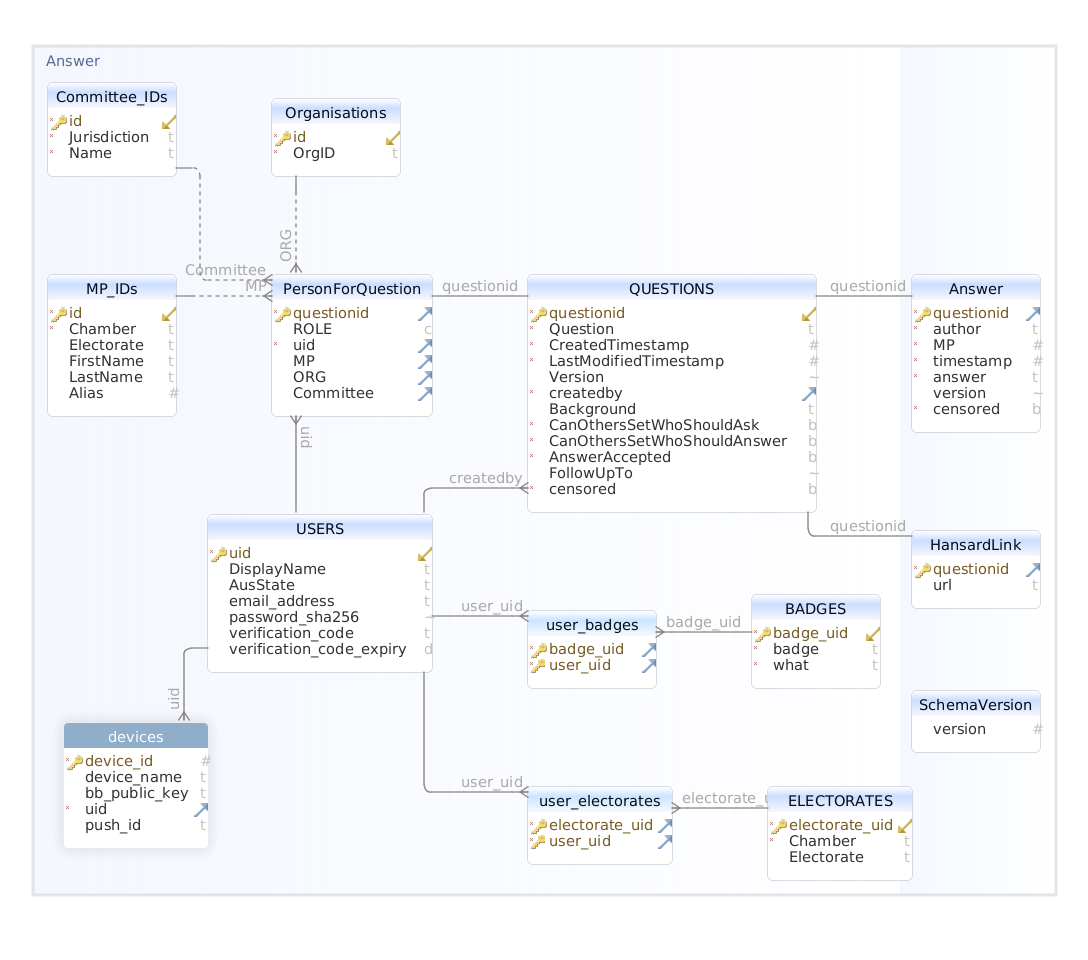
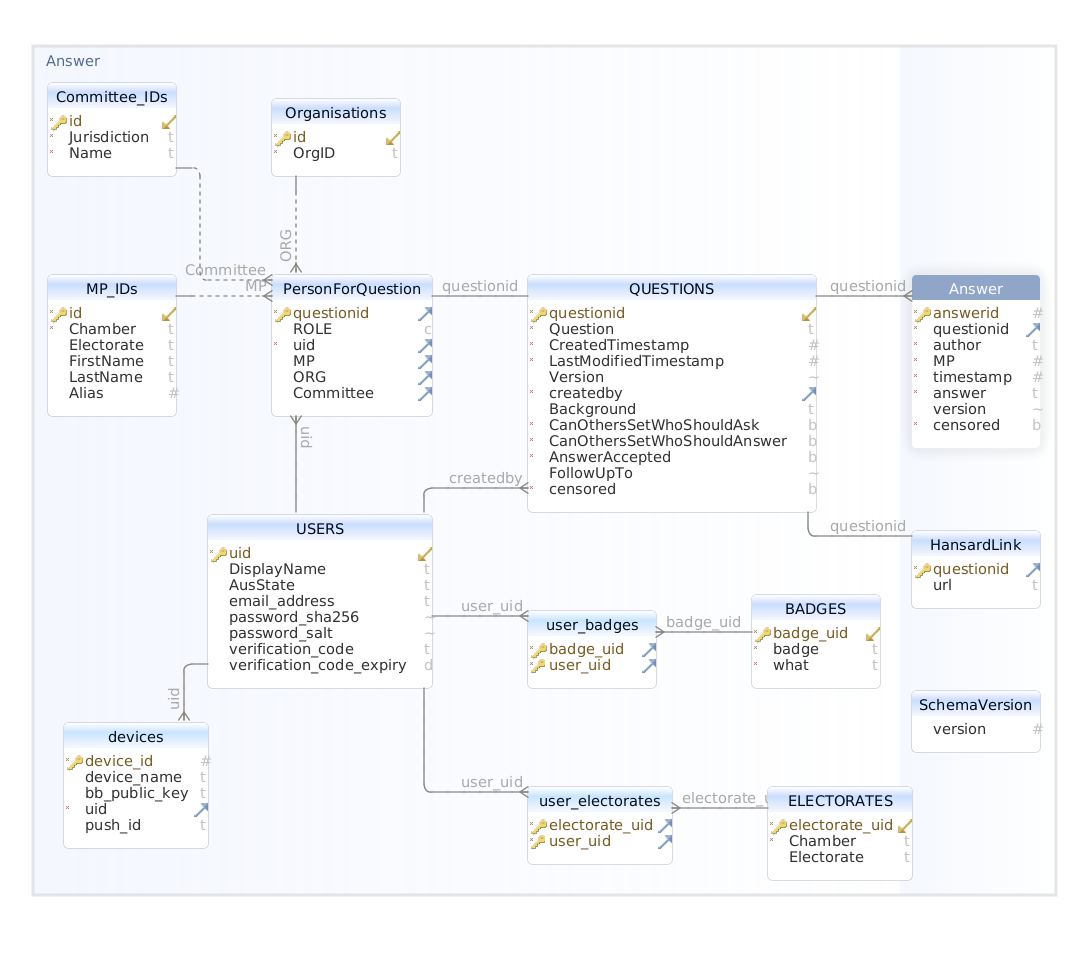
Further updates and bringing together documents - further questions to be discussed in next call

diff --git a/UserAccounts_WP1A.md b/UserAccounts_WP1A.md
@@ -60,27 +60,318 @@ The following diagrams shows an updated diagram with the relational links added,
 
 Whilst this may look like a lot of changes, most of it is the addition of foreign key constraints. Additionally, linking tables for badges and electorates have been added. Previously each Badge would duplicate the content for each user, when in fact the badge is static and is just awarded to the user. Similar to electorates, there is only one electorate that each user should reference, instead of each user having an entry for that electorate. 
 
-> **For Consideration**: Is there a one-to-one relationship between question and answer? If so, is there a one-to-one relationships between an answer and an MP? Or could an answer have more than one MP answer it? Alternatively could each question have multiple answers? If the latter is true, the answer table will need its own primary key, probably an auto increment integer called answer_id, and the questionid set as a foreign key constraint only and removed from the primary key of answer.
-
-VT: A question can have multiple answers, including multiple answers from one MP, or answers from multiple MPs.
+Changes to the existing structure could be achieved using Database Management software like [DBSchema](https://dbschema.com/), from which the entity relationship diagrams were created. The paid for version of DBSchema offers functionality to generate migration scripts. These work by first importing the existing database schema, making the necessary changes, and then exporting the migration scripts. These scripts should handle both the updating of the database structure as well as moving the data over to it. It would need testing in practice, but might provide a starting point for migration. If the database can be discarded and re-initialised, i.e., it is still in testing or development then that would be easier and the more advisable option. 
 
 ### User Table
 Users has been modified to convert the UID to an auto increment integer. A new field has been added to hold the email address, irrespective or whether it is added manually or retrieved from a federated login. A password_sha256 field has been added to handle local logins. This should contain a 32 byte verification value calculated using the password_salt. Whether the salt is returned to the user for local calculation or the salted hashing is performed on the server remains to be decided. It is possible that these fields are blank depending on how registration is performed. 
 
-The verification_code and verification_code_expiry contain the last randomly generated verification code sent to the user. The expiry should be a time, for example, 30 minutes after the code was generated. When checking the code, if the current time exceeds this expiry the code should be rejected. [_**Note**: implementing this requires careful consideration of daylight saving time if the clock being used for comparison changes with daylight saving time. It is generally easier to use UTC instead of a local timezone for such comparisons._]
+The verification_code and verification_code_expiry contain the last randomly generated verification code sent to the user. The expiry should be a time, for example, 30 minutes after the code was generated. When checking the code, if the current time exceeds this expiry the code should be rejected. [_**Note**: implementing this requires careful consideration of daylight saving time if the clock being used for comparison changes with daylight saving time. It is generally easier to use UTC instead of a local timezone for such comparisons. Unix time is derived from UTC, so provided no timezones are applied it should be fine_]
 
-VT: Can we just use UNIX time and ignore timezones altogether?
+
 
 ### Sessions
 Currently there is no concept of sessions within the back-end or the client app. Traditionally, apps would establish a session with the server though logging in, which would return some form of bearer-token that could be used to authenticate all subsequent requests until the session expires. By contrast, RTA uses the signing of messages as a means for authentication. This is sufficient when dealing with a very limited API, for example, adding a question, accepting an answer etc., however, it presents a problem for user account management. 
 
-For example, if a user wants to change their display name or email address is will be necessary to authenticate both the request to view the current data, and any follow-up requests to change it. It is possible that these requests could be signed as well, but that will make the processing of such requests more computationally expensive due to the signature checking required. 
+For example, if a user wants to change their display name or email address it will be necessary to authenticate both the request to view the current data, and any follow-up requests to change it. It is possible that these requests could be signed as well, but that will make the processing of such requests more computationally expensive due to the signature checking required. 
+
+Currently this is not a problem because of the single device architecture However, once multiple devices are supported it will be necessary to synchronise such data on start-up, since it could have been changed by another device. 
 
 VT: The way it's implemented at the moment is that existing data is stored locally and change requests are signed. Agree this may be a computational burden.
 
 One option for establishing sessions would be to use Mutual Authentication of the TLS connection. The server could act as an internal Certificate Authority that signed certificate requests from the client. As such, when a user registers and generates their key pair they also generate a certificate signing request which is signed to create a certificate including their UID and their device_id.
 
-VT: Interesting. Let's discuss.
+### TLS 
+The current approach to TLS on the server is to have an nginx server that acts as the end-point and then locally redirects requests to Rust. This has some advantages, in that it would allow load balancing by redirecting to different instances. However, the downside is that the end-point occurs prior to the Rust server and as such some additional configuration is needed to access the certificate. The simplest approach is to forward the necessary data via proxy headers, for example, by enabling:
 
-A related conundrum (though not necessarily one with the same solution) is pagination of the questions - how does the server know which questions it has already served to which users, so as to avoid repeating them? At the moment, it doesn't - it just returns them all, but this will become infeasible as the number of questions grows large.
+`proxy_set_header X-SSL-Client-S-DN   $ssl_client_escaped_cert;`
 
+This will include an encoded copy of the verified certificate in the headers, which Rust can then extract use to determine the client ID. 
+
+It is not always necessary to send the entire certificate. It is possible to extract various parts from the certificate for efficiency using headers like the following:
+
+```
+proxy_set_header X-SSL-Client-Serial $ssl_client_serial;
+proxy_set_header X-SSL-Client-Verify $ssl_client_verify;
+proxy_set_header X-SSL-Client-S-DN   $ssl_client_s_dn;
+```
+
+The Rust process to check that `X-SSL-Client-Verify=="SUCCESS` which determines if the mutual TLS was successful. Note, this will be essential because nginx may need to be configured to allow failed mTLS connections through for some requests, as such, `X-SSL-Client-Verify` may not always be SUCCESS.
+
+The reason failed mTLS connections may need to be allowed through is to allow the initial registration request through, in which the mTLS has not yet been configured for that client. An alternative, and better albeit more complicated option would be to configure different locations with different settings. One would be specifically for registration in which failed mTLS connections would be accepted and passed on to Rust. Whilst the general location for all other requests would enforce successful mTLS and reject any connections that fail. For redundancy the `X-SSL-Client-Verify` should be checked in any case to protected against nginx misconfiguration. 
+
+#### TLS Sessions
+TLS sessions would work by extracting a unique ID from the client certificate and using that as the index to a session store held on the server. Note, it is advisable to use a device specific identifier, not a user identifier. Otherwise a user accessing the service with two different devices will create a session collision, i.e. they will have one session shared between them which will create problems for future functionality like pagination. A good option would be to use a double index in the session store. The first level would be the user ID, extracted from the certificate DN, and the second would the certificate serial number, which is device specific due to different certificates being used on each device. 
+
+I would suggest implementing the session store using [memcached](https://www.memcached.org/). This provides a key value store, which is supported in [Rust](https://docs.rs/memcache/latest/memcache/). It provides object storage as well as providing an expiration time for entries. As such, there is no need to explicitly managed clean-up, memcached will handle clearing expired session for you.
+
+Data that is stored in a session is not persistent, it will be lost during a server restart or after expiration. The expiration should be long enough to cover the vast majority of use cases and will be dependent on how the app reloads. For example, how long should a search pagination last between requests, 30 minutes, 1 hour, 24 hours? Any such usage of a session cache should be written to gracefully fail should the session disappear, for example, during a server restart. 
+
+
+
+_A related conundrum (though not necessarily one with the same solution) is pagination of the questions - how does the server know which questions it has already served to which users, so as to avoid repeating them? At the moment, it doesn't - it just returns them all, but this will become infeasible as the number of questions grows large._
+
+## User Accounts
+
+### Need for accounts
+Unfortunately one of the few things you can guarantee with the internet is that if you allow people to post content, someone will post content they should not. Whether that is illegal content, harassment, spam, distribution of malware, or one of the many other possibilities, the ability to reach an audience will eventually be noticed by miscreants and subsequently targeted. As such, a completely open system is likely to become unmanageable quickly, and in turn may detract from the true purpose of the site and discourage genuine users. That said, the opposite is also a problem, if the creation of accounts is too arduous, it may cause too much friction and result in prospective users not engaging with the site. What is required is a minimum viable account system, whereby the minimum is determine by the moderation requirements of the site.
+
+It should be noted that this method of determining the minimum viable account system is specific to this context. In other contexts there may be additional requirements, for example, in finance there will be Know Your Customer requirements, in online shopping there might be delivery or payment requirements. However, in this context the primary objective is moderation and as such will be the factor we use to determine the minimum level of account system.
+
+### Types of User Account
+The following user account types will be defined:
+1. **Basic** - The initial account type, no registration is required but extremely limited in functionality
+3. **Registered** - Intermediate account type that has no greater permissions, but has started the registration process by providing their email address
+5. **Verified** - Verified account, their email account has been verified and they now have full standard user account privileges 
+7. **Verified Secondary** - Extended standard user account that has been linked to an MP's account, either via email verification or direct approval TBD
+9. **Verified Primary** - Verified as a parliamentary MP account via email
+
+Accounts effectively have escalating permissions with type. i.e. Basic can view but that is it, registered is an internal only status to handle the transfer from registered through to verified.  Note that most people will spend almost no time in the state of registered but not verified. Indeed, it may not even be helpful to think of this as a separate state from 'basic'.
+
+There may be adding "privileges" or badges associated with an account, but they not need change the definition of an account. For example, a user could self-submit their electorate, which would define the electorate in the database. However, there is also the possibility of distributing QRCodes within electorates to allow a user to verify their electorate. The best approach to this would be through the use of badges, and have the issuing of badges distinct form user account management.
+
+Overall, badges would provide an easy way of defining the different types of account and allow easy adding and removing of badges. However, the current code for managing badges may need some minor updates. The existing code in [person.rs](https://github.com/RightToAskOrg/right_to_ask_server/blob/main/right_to_ask_api/src/person.rs) does not handle checks and updates in a single database transaction. It does not look like this would cause a critical failure, but it could in theory create some concurrency issues.
+
+For example, it appears the following code checks if the badge is in the database in one transaction and then stores the badge in the database in a second distinct transaction. There is no guarantee of consistency between the first `is_in_database` result and when the `store_in_database` is called. It is likely that the first check could be combined into a single query. If not, then a single transaction should cover both queries to maintain consistency.
+
+```
+if badge.is_in_database(&initial_request.signed_message.user).await.map_err(internal_error_email)? { return Err(EmailValidationError::AlreadyHaveBadge); }
+    badge.store_in_database(&initial_request.signed_message.user).await.map_err(internal_error_email)?
+```
+
+It appears that the queries run for these two functions are as follows:
+```
+select COUNT(UID) from BADGES where UID=? and badge=? and what=?
+```
+and 
+```
+insert into BADGES (UID,badge,what) values (?,?,?)
+```
+In the updated recommendation structure this could be combined into a single insert query:
+
+```
+insert into user_badges (user_uid,badge_uid) values (?,?)
+```
+
+Where the `badge_uid` represents the type of badge being added, i.e. "Registered", "Verified", etc. These are shared types, with the mapping occurring in user_badges. As `user_uid` and `badge_uid` are composite primary keys any attempt to insert a duplicate would be rejected, thereby not requiring the guard query to check if it already exists.
+
+
+### Permissions
+The following defines the different permissions the different users will have.
+
+| Account Type | Read Posts | Create Posts  |  Upvote/Dismiss  |  Answer Questions | Flag Posts  |  DM  | Authorise Delegate Account | Act as Delegate Account 
+| ------------- |:-------------:| :-------------: |:-------------: |:-------------:|:-------------:| :-----:|:-----:|:-----:|
+| Basic      | :ballot_box_with_check: | :negative_squared_cross_mark: | :negative_squared_cross_mark: | :negative_squared_cross_mark:  | :negative_squared_cross_mark: | :negative_squared_cross_mark: |  :negative_squared_cross_mark: |  :negative_squared_cross_mark: |
+| Registered  | :ballot_box_with_check: | :negative_squared_cross_mark: | :negative_squared_cross_mark: | :negative_squared_cross_mark:  | :negative_squared_cross_mark: | :negative_squared_cross_mark: |  :negative_squared_cross_mark: |  :negative_squared_cross_mark: |
+| Verified | :ballot_box_with_check: | :ballot_box_with_check: | :ballot_box_with_check: |:negative_squared_cross_mark:  | :ballot_box_with_check: | :ballot_box_with_check: |  :negative_squared_cross_mark: |  :negative_squared_cross_mark: |
+| Verified Secondary | :ballot_box_with_check: | :ballot_box_with_check: | :ballot_box_with_check: | :ballot_box_with_check: | :ballot_box_with_check: | :ballot_box_with_check: |  :negative_squared_cross_mark: | :ballot_box_with_check: |
+| Verified Primary |:ballot_box_with_check: | :ballot_box_with_check: |:ballot_box_with_check: | :ballot_box_with_check: | :ballot_box_with_check: | :ballot_box_with_check: | :ballot_box_with_check: | :negative_squared_cross_mark: |
+ 
+> **For Consideration**: Should a Registered account be able to Flag posts? The argument against is the creation of fake accounts and spamming the moderators. The argument for is that if you can read something that causes you offence, should you have to verify yourself to flag it? It might be better to allow flagging easily but weight unverified user flags lower that verified user flags. 
+
+VT: I changed 'Flag post' permission for plain Registered, so that it perfectly matches 'basic.'
+
+VT: At the moment the authorisation for delegate accounts (or rather the acquisition of the badges) is through a 6-digit PIN sent in email. Certainly like the idea of possisbly endorsing directly in the app though.
+
+
+
+### User Account Structure
+* DisplayName (free text, no emoji, non-unique)
+* uid - internal random userID - not changeable
+* username/handle (no spaces, equivalent to twitter @, unique)
+
+Account type and moderation status will be stored via badges.
+
+> **For Consideration**: Should handle and DisplayName be distinct, as it is on Twitter? Should handle/username be the email address? If so, that would make email address public, which probably isn't desirable. This is only of relevance for DMs which require some form of addressable value, it would be possible to use DisplayName, but generally addressable names don't include spaces
+
+> **For Consideration**: Should handle and DisplayName be distinct, as it is on Twitter? This is only of relevance for DMs which require some form of addressable value, it would be possible to use DisplayName, but generally addressable names don't include spaces
+
+* AccountType - int (basic, registered, verified etc)
+* ModStatus - default 0 (1 premod, 2 banned)
+
+Username needs to be unique, so people can for example establish a DM exchange using username as an index to the internal ID. It is likely that changing the username will be a requirement, although hopefully a rare one. The question is how to handle that:
+* Should usernames be available for reuse if someone no longer uses it, i.e. they changed their username, does their old username become available for use?
+* If old usernames are made available should there be a time delay before they are available for use? If so, how long?
+* If not, should all usernames associated with an account be permanently associated with it, i.e. if someone tries to initiate a DM key exchange with an old username should it work? I can see problems with this in that it would reveal old usernames. That might be an issue depending on why the username was changed. Let's imagine it was an offensive username or at least accidentally offensive, history of that might want to be forgotten. Alternatively are old usernames simply retired?
+* If retiring or permanently associating usernames should there be a limit on the number of changes? I.e. 3 changes to prevent username squatting.
+
+Username should not be position specific, i.e. VicHealthMinister, instead they should use BobSmithMP and have "Vic Health Minister" as their display name. 
+
+### Changes in DisplayName
+If DisplayName is not used for indexing uid for DMs, the changing of a DisplayName is potentially easier than changing a username. However, this does present a challenge for previously asked questions.
+
+> **For Consideration**: Should DisplayName, or indeed username if used instead, be permanently tied to a question, or should it be dynamically loaded from the user account? The problem with the latter is that an MP leaving would lose their MP status, and may change both values, and in doing so answers will appear to come from people who are not MPs. Also, if an MP is the Health Minister and has that in the handle or display name, but they then become the Trade Minister, the questions they previously answered as the Health Minister would appear to be being answered by the Trade Minister. I suspect we are going to have to maintain a list of DisplayNames, and or handles, for each user and link questions and answers to the active DisplayName or handle as the time the question was asked or the answer was given. This presents a moderation challenge, in that in exceptional circumstances we would need to be able to change that - i.e. if it offensive - but that should be a moderation only task.
+
+VT: Unfortunately we probably do have to allow reuse, for example if someone registers VicHealthMinister and then gets reshuffled. Not clear this is needed for MVP though.
+
+If a user changes their email address their verification status is reset. They should be warned about this before starting to make the change.
+
+Are email addresses unique? I.e. only one user per email address?
+VT: The UI experts thought a lot about this and decided yes, just one. Obviously the official MP registration can be used to endorse multiple secondary accounts though.
+
+### Badge Types
+Badges will be globally defined instead of creating a badge per person for the same thing. i.e., there will be one Registered badge and one Verified badges in the badges table and then they will assigned to multiple users. The badges table is defined as follows:
+
+| Field Name | Field Type | Comments |
+| ------------- |:-------------:| :-------------: |
+| badge_uid | INT | PRIMARY KEY NOT NULL
+| badge_name | VARCHAR(30) |  |
+| what | TEXT |NOT NULL   |
+
+This is slightly different to presently, where `badge` is an ENUM, which is not necessary as the badges table becomes the ENUM in the new structure. `badge` is replaced with `badge_name` that is human readable name for the badge.
+
+The initial badges would be:
+
+| badge_uid | badge | what |
+| ------------- |:-------------:| :-------------: |
+| 1 | basic_user | Basic User badge |
+| 2 | registered_user | Registered User badge |
+| 3 | verified_user | Email Verified User badge |
+| 4 | MP | Denotes user is an MP |
+| 5 | MP Staff | Denotes user is a staffer for an MP |
+| 6 | Admin | Denotes user is an admin |
+| 7 | no_mod | Denotes the user is not currently subject to moderation |
+| 8 | pre_mod | Denotes the user is currently subject to pre-moderation |
+| 9 | banned | Denotes the user is banned|
+
+Note, that when moving between user states, i.e. registered_user to verified_user, or no_mod to pre_mod, the change must be perform in a single SQL transaction. For example, if the no_mod badge is to be removed and the pre_mod badge added the DELETE on the no_mod badge for that user and the insert on the pre_mod badge for that user must occur in a single atomic transaction to ensure inconsistent states cannot occur through failure or server crash. 
+
+
+## User registration
+Default login - RTA managed.
+
+### Social Login
+Social login is a form of federated login that uses social media platforms as identity providers. A number of platforms offer such services, including Google, Facebook, Twitter, GitHub, etc. The idea behind it is that users do not need to create dedicated accounts for each service, and only need to remember a single password - the password for the social media identity provider. Where the social media platform has additional information, for example, first and last name, age, etc. the receiving platform can populate the profile without requiring the user to provide the same information again. Some people believe it has a lower level of friction when compared to creating a dedicated account, although some caution should be attached to such a view, which we will discuss later. 
+
+## Underlying Technology
+Social login relies on OAuth 
+_work in progress, additional notes to be added_
+
+
+## User Verification
+Email verification can be done via either a link or a code. An email link that can be clicked to approve the registration is commonplace, but the risks of phishing attacks may raise some concerns. If a link is used, consideration should be given for using [App Links](https://developer.android.com/studio/write/app-link-indexing) on Android to allow the verification to be performed using the app rather than the browser. Either way, the UI needs to gracefully handle the verification. If we assume that registration and verification may not happen sequentially the app needs to handle the verification flow from potentially any screen. As such it must consider the following:
+
+* Remember where the user was and what they were doing
+* Remembering that the user is likely to switch away from the app to their email client so restore needs to be correctly implemented
+* If using links provide either a Push notification to the app so that it automatically moves on from the verification challenge or a button that allows the user to trigger a check that verification has been completed and move on 
+* Some form of UI symbol should be shown within the app to signify verified status
+* For Verified Secondary the process is probably no different, I don't think we can require a parliament address for delegated assistant accounts as the staff may be private staff in the constituency. 
+* For Verified Primary accounts enforcement of registered MPs email addresses needs to in place
+
+### Delegating to an Account
+A Verified Primary account can delegate to a Verified Secondary account through some form of approval process, mostly likely digitally signing a request or through providing a security code similar to verification. It is probably best that such requests come from the Secondary account so there isn't a burden on the MP to perform too many management functions. Once delegated to, the Verified Secondary account should have similar or possible the same functionality as the primary. Currently it does not have permissions to delegate to further secondary accounts, which seems like a reasonable limitation.
+
+## Account recovery
+
+## Support for E2E DMs
+
+## Account Moderation
+This document provides an initial consideration of the need for accounts, how they could be realised and the purposes they should serve. It will initially outline why there is a need for accounts and then establish the properties that would be desirable from an account, with consideration for potential attack vectors. 
+
+### Actions to follow up
+* Define an acceptable use policy
+  * Including a staged suspension policy for accounts that are in breach
+* Define a complaints procedure
+  * Implement complaints handling back-end
+* Determine moderation strategy
+  * Implement moderation functionality
+
+
+
+
+### Moderation Requirements
+Before deciding what level of moderation will be required some notion of the sites acceptable use policies will need to be established. Some things should be fairly obvious, i.e. posting illegal content is not permitted. However, in a free speech setting care must be taken in determining the exact wording of the policy. The policy needs to be sufficiently robust that it will permit the banning or exclusion of an individual from the site should they breach said policy. In particular, sections detailing harassment, foul language, threatening behaviour should be clearly defined and explained.
+
+Once a policy is determined there are three core requirements for moderation to be effective
+* Items in breach of policy can be quickly and easily removed
+* Accounts deemed in breach are prevented from posting in the future, either permanently or temporarily
+* Direct messaging can be flagged by the recipient
+
+#### Items in breach of policy can be quickly and easily removed
+This may seem simple, but can be difficult to deliver as the site scales. There are a number of strategies that can be adopted:
+* Pre-moderation
+* Reactive Moderation
+* Community Flagged Moderation
+* Partially Automatic Community Flagged Moderation
+* Community Driven Moderation
+
+Whilst these strategies can be used in isolation, it is likely that a combination of different strategies may be more appropriate, possibly with distinct strategies used for different accounts based on past behaviours.
+
+One common feature of them all is the ability to uniquely identify posts and the user who posted it. This exists in the current design due to the signing of posts. However, there is an overall assumption that accounts are largely restricted to one per person and that a single individual cannot have many accounts. If that were  not to occur these moderation strategies, with the exception of pre-moderation, are likely to fail due to the inability to attribute breaches to an individual. If an individual can have many accounts banning their accounts will have no impact and they will be able to spam and potentially overwhelm the site with relative ease.
+
+##### **Pre-moderation**
+The most extreme variant of moderation in which content is not posted until it has passed moderation. Such a moderation strategy takes the most time and therefore comes at the highest cost. Furthermore, unless content posting is relatively low in volume this approach will rapidly become infeasible as the site grows. As an ongoing site-wide strategy this should be avoided, however, consideration should be given to being able to apply such moderation to specific accounts, for examples, accounts with a certain number of past breaches could be placed in this state for a period of time to try to modify behaviour of the user without outright exclusion.
+
+It should also be considered whether a site-wide setting is implemented for emergency use. One should consider what would happen if the site came under a sustained and co-ordinated attack that attempted to spam it. This could happen were there to be an oversight in some aspect of authentication or overall moderation strategy. Having the option to enable a site-wide pre-moderation flag could be a useful last resort to prevent the site becoming overwhelmed.
+
+##### **Reactive Moderation**
+Relies only on moderating content when someone files a complaint. A complaints procedure should be defined, with some consideration for appeal or right to response for the accused account. A decision as to whether to immediately hide a post that has received a complaint should be considered, and if implemented should be detailed in the acceptable use and complaints policy. Some limit on the number of upheld complaints that are permitted and the staged consequences should be made clear to users.
+
+A Reactive Moderation strategy will likely be fairly lightweight, and would hopefully only be required in exceptional situations. However, there is a risk that some undesirable behaviour will go unreported and could lead to genuine users disengaging rather than filing complaints. The risk of this happening will increase the more arduous the complaints procedure is. However, if the complaints procedure is too easy, i.e. just clicking a button, there is a risk of an increase in spurious complaints and the corresponding workload associated with them. If an extremely easy complaints procedure is implemented this becomes more akin to one of the *Community Flagged* variants described below.
+
+##### **Community Flagged Moderation**
+A Community Flagged Moderation strategy relies on the community as a whole flagging content as potentially inappropriate. Flagging is intended to be simple and quick, often just a button press. Reactions to flagging can be adaptive, i.e. order items by the number of flags and address those items with the most flags first or above a pre-determined threshold (Note the exact threshold should not necessarily declared, but the usage of a threshold should be). 
+
+The ease of flagging does run the risk that spurious flags will be raised, leading to time wasted reviewing and addressing them. It would be possible to have a consequence for flagging content that is subsequently deemed acceptable, but caution should be taken around applying such measures. If there is a perceived cost to flagging content genuine users may be more likely to not engage in the flagging process. This could result in genuine cases to be lost in the noise from any spurious or politically motivated flagging. 
+
+##### **Partially Automatic Community Flagged Moderation**
+This is adds some degree of automatic response to the Community Flagged Moderation through automatically hiding content or suspending an account when certain thresholds are reached. A right to appeal should be made available for those whose posts have been hidden or accounts suspended. In such a strategy the moderation is potentially largely automated, with moderators only getting involved in the most serious cases where additional complaints are filed, or where there are appeals against moderation. 
+
+For example, a threshold of 10 flags could be defined, after which a post will be hidden. The user whose post was moderated should be notified with details of the appeal process - which should be relatively easy to complete, for example, a simple form with an textarea to explain why they believe the moderation to be incorrect.
+
+This could be expanded to automatically suspend or place an account into pre-moderation once a certain number of posts have been moderated within a given period, say 3 months. As such, if a user has 3 posts moderated within a rolling 3 month period their account will enter pre-moderation until they drop back below the threshold, i.e. after a past indiscretion falls outside the 3 month period. This transfer to and from pre-moderation can be automatic, reducing workload. However, this would increase workload in terms of pre-moderation. 
+
+Furthermore, there should be a further step available to moderators. For example, posts that fail pre-moderation should be added to the users count of moderated posts and at a certain threshold the account should be permanently or temporarily suspend outright. This is important to provide a limit on the amount of work a problem account can create in terms of moderation. 
+
+##### **Community Driven Moderation**
+Community Driven Moderation is similar to that found of sites such a Wikipedia, in which the moderation is largely performed by the assigned editors or moderators. Some form of community appeal process can be defined and the administrators of the site are largely hands-off except in exception circumstances. Whilst this provides the least work, and potentially scales with the site. It is dependent on having a sufficiently large enough community, with diverse opinions and backgrounds to provide a balanced moderation group. It is possible for administrators to lose control of moderation if community moderation is formally defined. In such scenarios a bias in the moderation team could lead to undesirable results. Heavy handed administrators overriding or interfering with moderation could also cause moderators to withdraw. As such, whilst this is a desirable end goal in terms of sustainability, it should only be evaluated once a sufficiently size community has established and the capability of the community to behave in a balanced and fair way has been established.
+
+That said, if this is the long-term goal it may be worth considering how the moderation functionality is implemented in the back-end to create some notion of a distinction between a moderator and an administrator, even though initially they may be the same. This would facilitate easier transition to the this approach later on, without re-engineering the user system.
+
+#### Accounts deemed in breach are prevented from posting in the future, either permanently or temporarily
+Fundamentally this is where the real challenge and trade-off begins. Ideally an account should be tied to an individual, and therefore synonymous with each other. Restricting an account should equate to restricting an individual. If it does not, then the individual can just create a new account and circumvent any restrictions. In doing so they render the moderation strategy considerably weaker, possibly undermining it entirely, and lead the site vulnerable to being overwhelmed in terms of moderation workload or inappropriate content. 
+
+Establishing identity and linking it to an account is a challenge. At its most extreme it would involve using digital ID services to establish ID to a very high degree of certainty. However, such measures are likely to be deemed too expensive to operators and too invasive to users. Therefore a proxy for identity needs to be found.
+
+##### **Proxies for Identity**
+A proxy for identity needs to be something that is typically tied to just one individual, and for which there is some limit or cost in acquiring. No proxy is going to be perfect, there is likely to always be a way around any limits imposed by the proxy given enough time and money. Some possible proxies for identity:
+
+* Email address
+* Phone number
+* Credit card
+* Device ID
+
+###### *Email Address*
+Email address is one of the most common and obvious choices. Most email addresses are tied to an individual and many providers, including Google and Outlook, impose some degree of restriction on the number of email accounts a person can create. This is often through identity checking when opening a new account. However, there are plenty of anonymous mailbox services (e.g. mailinator) or someone could use their own domain. As such, some statistics and alerts should be set to detect multiple accounts coming from the same domain. That could be innocent but some oversight might be necessary. Blocking certain temporary email account services might also be a sensible limitation.
+
+Consider some rate limiting based on domain. e.g. unlimited for outlook, gmail, .edu.au, .gov.au, but perhaps rate limit new accounts from other domains, or at least raise an alert if they happen. Put in place some options for detecting how many people are registering from the same domain, how many flags have been raised about them, how many questions they're posting, etc. One indication of trouble is posting lots of questions, or sending lots of DMs, but not upvoting. Or just rate limit the number of questions each account can ask. Maybe send admins an alert if rate limits are imposed. The rate limits should probably be public.
+
+An email address can only work as a proxy if the email address is verified. Otherwise someone could use an email address that does not belong to them. Limiting functionality until the email address has been verified would be one way of addressing this requirement without adding too much additional friction. For example, DMs and posting can only be made from an account with a verified email address.
+
+As a further note of caution, Gmail potentially allows an unlimited number of email addresses per user through the use of "+" addressing. This works by allowing anything to placed after the genuine address with a "+" symbol. For example, if the email account is joebloggs@gmail.com, then joebloggs+temp123@gmail.com, joebloggs+temp124@gmail.com and joebloggs+facebook@gmail.com are all legitimate aliases. As such, when checking for uniqueness of an email address it is important to consider such "+" addressing for Gmail and other providers.
+
+###### *Phone Number*
+Phone number, in particular a mobile phone number, which can be verified via sending a one-time code, provides a high degree of identity verification. This is particularly so in Australia where there are strict identity checks on mobile phones. Apps like Signal use phone number as an identifier for individuals. There is a cost involved in sending verification messages and there could be some hesitation from individuals to share their phone number with a website. 
+
+###### *Credit Card*
+Whilst a credit card is a strong identity check it is not practical for a setting which does not involve purchasing. 
+
+###### *Device ID*
+Given the mobile nature of the service, in that it is currently only accessible via an app, it would be possible to use a device identifier. For example, `Settings.Secure.ANDROID_ID` is a device/application specific identifier. It remains the same between uninstall and reinstall if the package stays the same and the same signing key is used on the APK. See [Android blog](https://android-developers.googleblog.com/2017/04/changes-to-device-identifiers-in.html). The ID will reset during a factory reset. 
+
+If combined with Android SafetyNet it would be possible to ensure that the device is not an emulator and is a genuine Android device. This would prevent automated generation of fake devices. It would require Google Play Services to be installed, but so would Firebase Cloud Messaging, so that might already be a requirement. 
+
+This may require an app permission update if imposed later.
+
+iOS has a similar thing: [identifierForVendor](https://developer.apple.com/documentation/uikit/uidevice/1620059-identifierforvendor) but apparently it resets when the user uninstalls and reinstalls the app. A better alternative is probably to store a unique ID in the keychain - we don't *think* this is going to be autodeleted when the app is uninstalled, but discussion is a [little unclear](https://developer.apple.com/forums/thread/72271) and [not getting clearer](https://developer.apple.com/forums/thread/36442). There's also a [device check](https://developer.apple.com/documentation/devicecheck). But overall keychain is probably the right choice.
+
+A further downside would be if future expansion includes a web based version there would be no equivalent ID value. It would also not assist in account recovery.
+
+###### *Third part login*
+Could consider Xamarin.Essentials Web Authenticator. This allows server to use third-party auth e.g. Google, Apple, FB, MS. Upside: much harder for malicious actors to generate multiple different accounts. Downside: dependent on those third parties. Ideally we'd use them (or an email address) for account establishment at most, and then use the established public keys.
+
+#### Direct Messages
+Direct messages will require reactive moderation as well as additional functionality to report the contents as the message in question will not normally be visible to a moderator. In order to counter any attempts to falsely claim a breach of policy, direct messages should be signed by the senders identity key, and thus provide non-repudiation. However, this doesn't prevent out of context complaints, i.e. taking one message out of a context and complaining about it. Moderators will not be able to access DMs directly, and if one party is claiming a breach using an out of context message then the only option to see the context is to provide the subject of the complaint the option to appeal and share their record of the discussion. 
+
+If parts of an exchange are shared with moderators there is a need to define a policy for how that information will be stored, retained, and potentially shared. In a worst case scenario - albeit one that is very unlikely - the contents of a message shared with moderators could become the subject of a criminal complaint and the only people with access could be the moderators. For example, if Person A complains about a DM Person B sent that breached the site policy on profanity Person B might be banned. If Person B appeals, and in doing so shares the full thread revealing Person A threatened person B or racially harassed them, then Person A would also get banned. Person B has still breached the policy, and even though there may have been extenuating circumstances, they may still be banned. The problem would occur if Person B subsequently makes a police complaint. Since Person B is banned they will be unable to access their account, and one would assume the app would fail to load, and thus they would not be able to view their messages. If we want them to be able to view previous messages without logging in that is going add complexity to the implementation. As such, we can assume they cannot access any part of the service, past or present, after a ban. They therefore no longer have access to the evidence of Person A's conduct. However, the moderators would have had access when Person B appealed their original ban. 
+
+The challenge this presents is deciding what to do with private correspondence sent to a moderator during an appeal or complaint. Should it be deleted when the appeal/complaint is finalised? Should it be retained for a period of time? What responsibility do the moderators have in reporting any potentially illegal content? As an example of clause see (https://twitter.com/en/privacy#chapter3.3)[https://twitter.com/en/privacy#chapter3.3]
